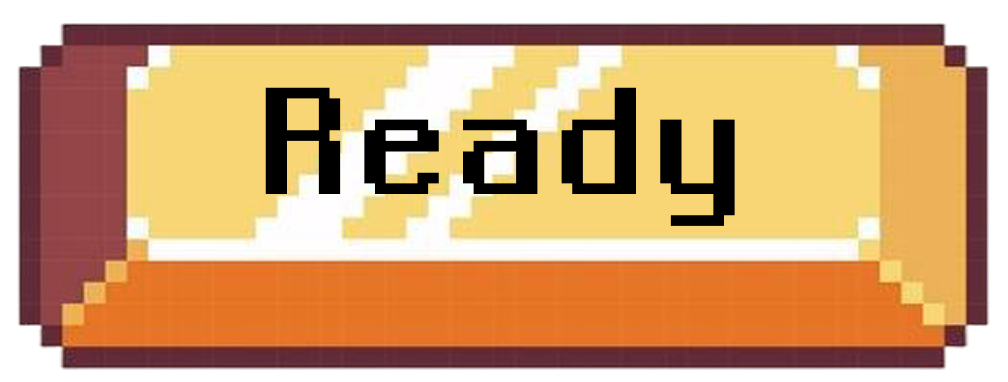
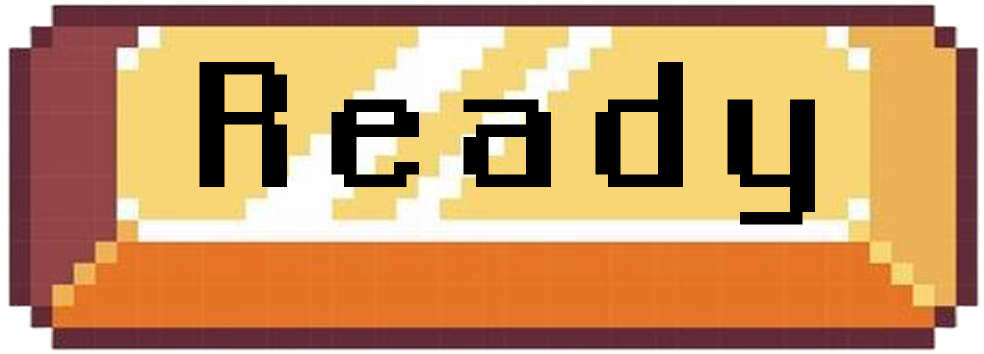
S12P31E103-231 [FE] design : 멀티모드 전반적인 버튼 수정

diff --git a/Front/codenova/src/components/multi/modal/EnterRoomModal.jsx b/Front/codenova/src/components/multi/modal/EnterRoomModal.jsx
@@ -1,7 +1,7 @@
 import React, { useState } from "react";
 import modalBg from "../../../assets/images/board3.png";
-import cancleBtn from "../../../assets/images/cancle_btn_2.png";  //  취소 버튼
-import goRoomBtn from "../../../assets/images/multi_go_room_btn.png"; //  입장 버튼
+import cancleBtn from "../../../assets/images/multi_cancel_btn.png";  //  취소 버튼
+import goRoomBtn from "../../../assets/images/multi_go_game_room.png"; //  입장 버튼
 
 const EnterRoomModal = ({ 
     isPrivate, 
@@ -45,8 +45,8 @@ const EnterRoomModal = ({
           {isPrivate ? (
             <>
               <h2 className="text-3xl  mb-2">Room Code</h2>
-              <p className="text-2xl  mb-2 text-fuchsia-400">[{roomTitle}]</p>
-              <p className="text-m text-gray-300 mb-4">방 코드를 입력해주세요!</p>
+              <p className="text-3xl  mb-2 text-fuchsia-400">[{roomTitle}]</p>
+              <p className="text-m text-gray-300 mb-2">방 코드를 입력해주세요!</p>
 
               <input
                 type="text"
@@ -66,11 +66,11 @@ const EnterRoomModal = ({
                   placeholder="방 코드 입력"
               />
 
-                <div className="flex gap-12 mt-2">
+                <div className="flex gap-16 mt-2">
                 {/* 취소 버튼 */}
                 <button
                   onClick={onClose}
-                  className="w-[100px] h-[40px] hover:brightness-110 hover:scale-95 transition"
+                  className="w-[120px] h-[50px] hover:brightness-110 hover:scale-95 transition"
                 >
                   <img src={cancleBtn} alt="취소" className="w-full h-full object-contain" />
                 </button>
@@ -78,7 +78,7 @@ const EnterRoomModal = ({
                 {/* 입장 버튼 */}
                 <button
                   onClick={handleEnter}
-                  className="w-[105px] h-[40px] hover:brightness-110 hover:scale-95 transition"
+                  className="w-[120px] h-[50px] hover:brightness-110 hover:scale-95 transition"
                 >
                   <img src={goRoomBtn} alt="입장" className="w-full h-full object-contain" />
                 </button>
@@ -88,16 +88,16 @@ const EnterRoomModal = ({
           /* 공개방 (그냥 입장) */
             <>
               <h2 className="text-3xl mb-2">입장하시겠습니까?</h2>
-              <p className="text-2xl mt-6 mb-4 text-fuchsia-400">[{roomTitle}]</p>
+              <p className="text-3xl mt-4 mb-4 text-fuchsia-400">[{roomTitle}]</p>
 
               <p className="text-xl text-gray-300 mb-1">언어: {roomLanguage}</p>
               <p className="text-xl text-gray-300 mb-2">인원: {currentPeople}/{standardPeople}명</p>
 
-              <div className="flex justify-center gap-12 mt-4">
+              <div className="flex justify-center gap-16 mt-3">
                 {/* 취소 버튼 */}
                 <button
                   onClick={onClose}
-                  className="w-[100px] h-[40px] hover:brightness-110 hover:scale-95 transition"
+                  className="w-[120px] h-[50px] hover:brightness-110 hover:scale-95 transition"
                 >
                   <img src={cancleBtn} alt="취소" className="w-full h-full object-contain" />
                 </button>
@@ -105,7 +105,7 @@ const EnterRoomModal = ({
                 {/* 입장 버튼 */}
                 <button
                   onClick={() => onEnter()}
-                  className="w-[100px] h-[40px] hover:brightness-110 hover:scale-95 transition"
+                  className="w-[120px] h-[50px] hover:brightness-110 hover:scale-95 transition"
                 >
                   <img src={goRoomBtn} alt="입장" className="w-full h-full object-contain" />
                 </button>

diff --git a/Front/codenova/src/components/multi/waiting/RoomChatBox.jsx b/Front/codenova/src/components/multi/waiting/RoomChatBox.jsx
@@ -17,10 +17,10 @@ const RoomChatBox = ({messages = [], onSendMessage }) => {
   }, [messages]);
 
   return (
-    <div className="w-[73%] h-[220px] bg-[#0D0D2B] bg-opacity-70 rounded-2xl flex flex-col p-4 mt-7">
+    <div className="w-[73%] h-[230px] bg-[#0D0D2B] bg-opacity-70 rounded-2xl flex flex-col p-4 mt-7">
       <div
         ref={messageListRef}
-        className="h-[140px] overflow-y-auto mb-2 custom-scrollbar text-white text-sm space-y-1 px-1"
+        className="h-[150px] overflow-y-auto custom-scrollbar text-white text-sm space-y-1 px-1"
       >
         {messages.map((msg, index) => (
           <div
@@ -37,14 +37,14 @@ const RoomChatBox = ({messages = [], onSendMessage }) => {
         ))}
       </div>
 
-      <div className="flex gap-2">
+      <div className="flex gap-2 mt-4">
         <input
           type="text"
           value={input}
           onChange={(e) => setInput(e.target.value)}
           onKeyDown={(e) => e.key === "Enter" && handleSend()}
-          className="flex-1 px-4 py-2 rounded-md text-black text-sm"
-          placeholder="메시지를 입력하세요"
+          className="flex-1 px-4 py-2 rounded-md text-black text-m"
+          placeholder="메시지를 입력하세요."
         />
         <button
           onClick={handleSend}

diff --git a/Front/codenova/src/components/multi/waiting/RoomInfoPanel.jsx b/Front/codenova/src/components/multi/waiting/RoomInfoPanel.jsx
@@ -41,7 +41,7 @@ const RoomInfoPanel = ({
 
   
     return (
-    <div className="w-[200px] h-[220px] bg-[#0D0D2B] bg-opacity-70 rounded-2xl flex flex-col items-center p-4 justify-between mt-7">
+    <div className="w-[200px] h-[230px] bg-[#0D0D2B] bg-opacity-70 rounded-2xl flex flex-col items-center p-4 justify-between mt-7">
       
       {/* 상단 정보 */}
       <div className="w-full text-center text-white mb-4 mt-2">
@@ -70,7 +70,7 @@ const RoomInfoPanel = ({
       </div>
 
       {/* 버튼 영역 */}
-<div className="w-full flex flex-col items-center gap-y-1">
+<div className="w-full flex flex-col items-center gap-y-3">
   {/* 나가기 버튼 */}
   <button onClick={onLeave} className="w-[145px] h-[45px] hover:brightness-110 hover:scale-95 transition">
     <img src={exitBtn} alt="Exit" className="w-full h-full object-contain" />
